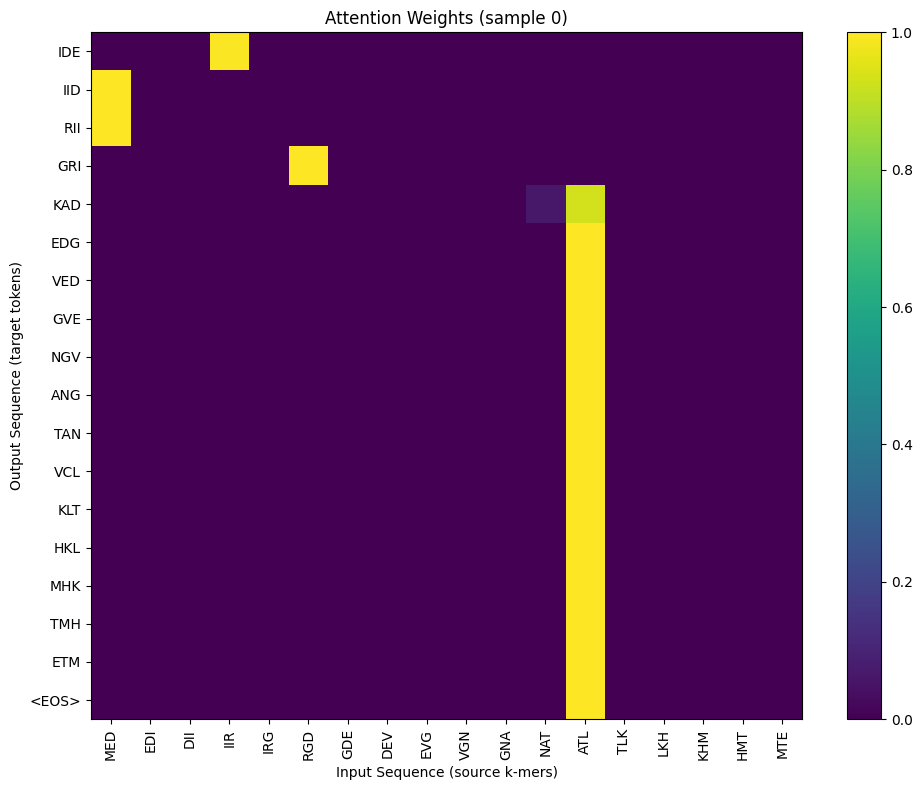
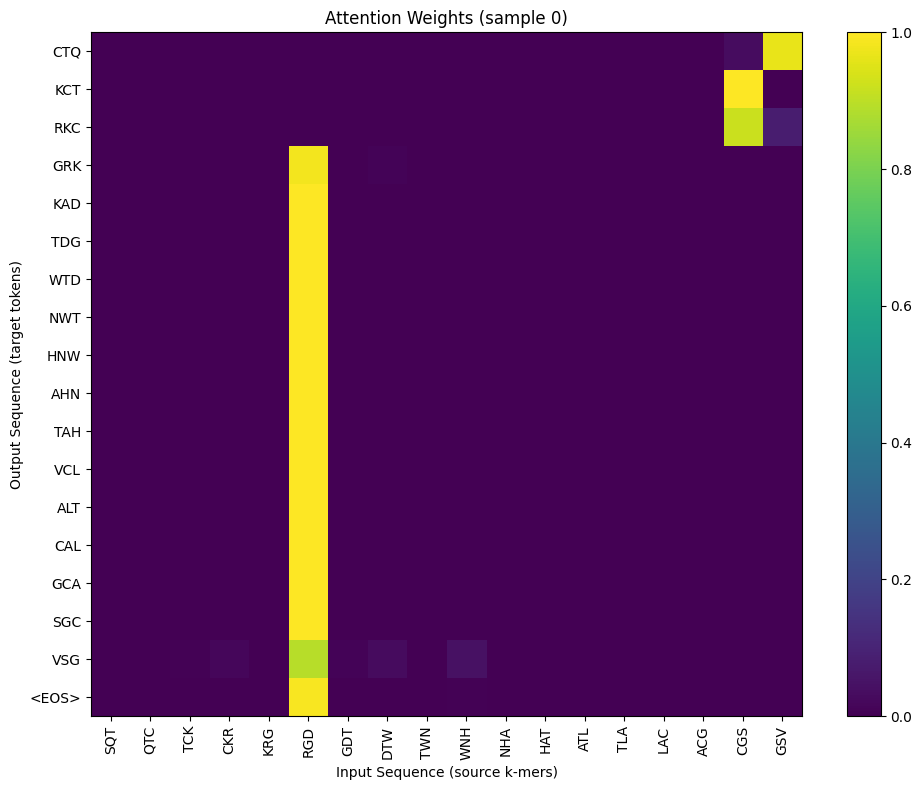
Built site for gh-pages

diff --git a/day8_attention.html b/day8_attention.html
@@ -418,7 +418,7 @@ c_t = \sum_i \alpha_{t,i} h_i
 </ul></li>
 </ul>
 <p><img src="images/attention.png" class="img-fluid"></p>
-<div id="cell-11" class="cell" data-execution_count="37">
+<div id="cell-11" class="cell" data-execution_count="44">
 <div class="sourceCode cell-code" id="cb2"><pre class="sourceCode python code-with-copy"><code class="sourceCode python"><span id="cb2-1"><a href="#cb2-1" aria-hidden="true" tabindex="-1"></a><span class="im">import</span> numpy <span class="im">as</span> np</span>
 <span id="cb2-2"><a href="#cb2-2" aria-hidden="true" tabindex="-1"></a></span>
 <span id="cb2-3"><a href="#cb2-3" aria-hidden="true" tabindex="-1"></a><span class="co"># Example encoder outputs (keys and values)</span></span>
@@ -455,15 +455,15 @@ c_t = \sum_i \alpha_{t,i} h_i
 <span id="cb2-34"><a href="#cb2-34" aria-hidden="true" tabindex="-1"></a><span class="bu">print</span>(<span class="st">"Attention Weights (Softmax):"</span>, attention_weights)</span>
 <span id="cb2-35"><a href="#cb2-35" aria-hidden="true" tabindex="-1"></a><span class="bu">print</span>(<span class="st">"Context Vector:"</span>, context_vector)</span></code><button title="Copy to Clipboard" class="code-copy-button"><i class="bi"></i></button></pre></div>
 <div class="cell-output cell-output-stdout">
-<pre><code>Encoder Outputs (Keys and Values): [[ 0.30962238 -1.22155918  0.90155944  1.05228082 -0.4054248 ]
- [ 1.26865193 -0.90169832 -2.03547086  0.96450162  0.01972147]
- [-0.27558512  1.0251221   1.02945028  0.24267249 -0.5731709 ]
- [ 1.12332483 -1.68615437  1.7009695  -0.62422869  0.87135365]]
-Decoder Hidden State (Query): [ 0.91377301  0.48043807 -1.24283583 -0.51323829  0.18869329]
-Attention Scores: [-2.04102109  2.76450795 -1.27145457 -1.41285803]
-Scaled Attention Scores: [-0.91277238  1.23632554 -0.56861177 -0.63184932]
-Attention Weights (Softmax): [0.08121976 0.69663145 0.11458526 0.10756353]
-Context Vector: [ 0.99818107 -0.79127098 -1.04382646  0.7180306   0.00885903]</code></pre>
+<pre><code>Encoder Outputs (Keys and Values): [[-1.97628723 -0.49550066 -0.07627168 -1.50952524  0.8605617 ]
+ [-1.46537992 -0.06623029  1.64805089 -0.31390741 -1.79840795]
+ [-0.6832564   0.48039745 -0.72635226  0.59668384 -0.30876552]
+ [-1.78401374  1.59069848  1.31990247  0.25969989  1.12070123]]
+Decoder Hidden State (Query): [ 1.60975157 -0.73172626  1.26205092 -0.134268    1.98933803]
+Attention Scores: [-1.00039032 -3.76600465 -3.06244056 -0.17540643]
+Scaled Attention Scores: [-0.44738815 -1.68420848 -1.36956505 -0.07844414]
+Attention Weights (Softmax): [0.31906426 0.09262621 0.12687668 0.46143285]
+Context Vector: [-1.67618705  0.63072055  0.64520633 -0.31517228  0.58594798]</code></pre>
 </div>
 </div>
 <p><img src="images/att1.png" class="img-fluid"></p>
@@ -549,7 +549,7 @@ Context Vector: [ 0.99818107 -0.79127098 -1.04382646  0.7180306   0.00885903]</c
 <li>Logits: <code>(B, S_tgt, V)</code></li>
 <li>Attention weights: <code>(B, S_src)</code> - probability distribution over source tokens</li>
 </ul>
-<div id="cell-16" class="cell" data-execution_count="38">
+<div id="cell-16" class="cell" data-execution_count="45">
 <div class="sourceCode cell-code" id="cb4"><pre class="sourceCode python code-with-copy"><code class="sourceCode python"><span id="cb4-1"><a href="#cb4-1" aria-hidden="true" tabindex="-1"></a><span class="im">import</span> numpy <span class="im">as</span> np</span>
 <span id="cb4-2"><a href="#cb4-2" aria-hidden="true" tabindex="-1"></a><span class="im">import</span> torch</span>
 <span id="cb4-3"><a href="#cb4-3" aria-hidden="true" tabindex="-1"></a><span class="im">from</span> torch.utils.data <span class="im">import</span> Dataset, DataLoader</span>
@@ -675,18 +675,18 @@ Context Vector: [ 0.99818107 -0.79127098 -1.04382646  0.7180306   0.00885903]</c
 <span id="cb4-123"><a href="#cb4-123" aria-hidden="true" tabindex="-1"></a></span>
 <span id="cb4-124"><a href="#cb4-124" aria-hidden="true" tabindex="-1"></a></span></code><button title="Copy to Clipboard" class="code-copy-button"><i class="bi"></i></button></pre></div>
 <div class="cell-output cell-output-stdout">
-<pre><code>Vocabulary size: 4478
+<pre><code>Vocabulary size: 4452
 Source batch shape: torch.Size([10, 18])
 Decoder input shape: torch.Size([10, 19])
 Decoder target shape: torch.Size([10, 19])
 Source lengths: [18, 18, 18, 18, 18, 18, 18, 18, 18, 18]
 Decoder lengths: [19, 19, 19, 19, 19, 19, 19, 19, 19, 19]
-Initial sequence: KNWHKRGDRSQRATLNLTWD
-Source k-mers[0]: ['KNW', 'NWH', 'WHK', 'HKR', 'KRG', 'RGD', 'GDR', 'DRS', 'RSQ', 'SQR'] ...
-Target k-mers[0]: ['WNK', 'HWN', 'KHW', 'RKH', 'GRK', 'KAD', 'RDG', 'SRD', 'QSR', 'RQS'] ...</code></pre>
+Initial sequence: YSNCYRGDWYILATLDWGPF
+Source k-mers[0]: ['YSN', 'SNC', 'NCY', 'CYR', 'YRG', 'RGD', 'GDW', 'DWY', 'WYI', 'YIL'] ...
+Target k-mers[0]: ['NSY', 'CNS', 'YCN', 'RYC', 'GRY', 'KAD', 'WDG', 'YWD', 'IYW', 'LIY'] ...</code></pre>
 </div>
 </div>
-<div id="cell-17" class="cell" data-execution_count="39">
+<div id="cell-17" class="cell" data-execution_count="46">
 <div class="sourceCode cell-code" id="cb6"><pre class="sourceCode python code-with-copy"><code class="sourceCode python"><span id="cb6-1"><a href="#cb6-1" aria-hidden="true" tabindex="-1"></a><span class="im">import</span> torch</span>
 <span id="cb6-2"><a href="#cb6-2" aria-hidden="true" tabindex="-1"></a><span class="im">import</span> torch.nn <span class="im">as</span> nn</span>
 <span id="cb6-3"><a href="#cb6-3" aria-hidden="true" tabindex="-1"></a><span class="im">import</span> torch.nn.functional <span class="im">as</span> F</span>
@@ -897,7 +897,7 @@ Target k-mers[0]: ['WNK', 'HWN', 'KHW', 'RKH', 'GRK', 'KAD', 'RDG', 'SRD', 'QSR'
 <span id="cb6-208"><a href="#cb6-208" aria-hidden="true" tabindex="-1"></a></span>
 <span id="cb6-209"><a href="#cb6-209" aria-hidden="true" tabindex="-1"></a>        <span class="cf">return</span> outputs, attn_list</span></code><button title="Copy to Clipboard" class="code-copy-button"><i class="bi"></i></button></pre></div>
 </div>
-<div id="cell-18" class="cell" data-execution_count="40">
+<div id="cell-18" class="cell" data-execution_count="47">
 <div class="sourceCode cell-code" id="cb7"><pre class="sourceCode python code-with-copy"><code class="sourceCode python"><span id="cb7-1"><a href="#cb7-1" aria-hidden="true" tabindex="-1"></a><span class="im">import</span> torch</span>
 <span id="cb7-2"><a href="#cb7-2" aria-hidden="true" tabindex="-1"></a><span class="im">import</span> torch.nn <span class="im">as</span> nn</span>
 <span id="cb7-3"><a href="#cb7-3" aria-hidden="true" tabindex="-1"></a></span>
@@ -970,59 +970,59 @@ Target k-mers[0]: ['WNK', 'HWN', 'KHW', 'RKH', 'GRK', 'KAD', 'RDG', 'SRD', 'QSR'
 <span id="cb7-70"><a href="#cb7-70" aria-hidden="true" tabindex="-1"></a>    avg_loss <span class="op">=</span> total_loss <span class="op">/</span> <span class="bu">max</span>(<span class="dv">1</span>, num_batches)</span>
 <span id="cb7-71"><a href="#cb7-71" aria-hidden="true" tabindex="-1"></a>    <span class="bu">print</span>(<span class="ss">f"Epoch </span><span class="sc">{</span>epoch<span class="sc">}</span><span class="ss">/</span><span class="sc">{</span>epochs<span class="sc">}</span><span class="ss"> - Loss: </span><span class="sc">{</span>avg_loss<span class="sc">:.4f}</span><span class="ss">"</span>)</span></code><button title="Copy to Clipboard" class="code-copy-button"><i class="bi"></i></button></pre></div>
 <div class="cell-output cell-output-stdout">
-<pre><code>Epoch 1/50 - Loss: 8.1610
-Epoch 2/50 - Loss: 6.9688
-Epoch 3/50 - Loss: 6.6315
-Epoch 4/50 - Loss: 6.3118
-Epoch 5/50 - Loss: 5.9868
-Epoch 6/50 - Loss: 5.6759
-Epoch 7/50 - Loss: 5.3557
-Epoch 8/50 - Loss: 5.0290
-Epoch 9/50 - Loss: 4.6998
-Epoch 10/50 - Loss: 4.3941
-Epoch 11/50 - Loss: 4.0830
-Epoch 12/50 - Loss: 3.7908
-Epoch 13/50 - Loss: 3.5122
-Epoch 14/50 - Loss: 3.2365
-Epoch 15/50 - Loss: 2.9783
-Epoch 16/50 - Loss: 2.7413
-Epoch 17/50 - Loss: 2.5214
-Epoch 18/50 - Loss: 2.3224
-Epoch 19/50 - Loss: 2.1395
-Epoch 20/50 - Loss: 1.9645
-Epoch 21/50 - Loss: 1.8094
-Epoch 22/50 - Loss: 1.6709
-Epoch 23/50 - Loss: 1.5422
-Epoch 24/50 - Loss: 1.4250
-Epoch 25/50 - Loss: 1.3188
-Epoch 26/50 - Loss: 1.2233
-Epoch 27/50 - Loss: 1.1383
-Epoch 28/50 - Loss: 1.0664
-Epoch 29/50 - Loss: 1.0148
-Epoch 30/50 - Loss: 0.9577
-Epoch 31/50 - Loss: 0.8992
-Epoch 32/50 - Loss: 0.8402
-Epoch 33/50 - Loss: 0.7905
-Epoch 34/50 - Loss: 0.7466
-Epoch 35/50 - Loss: 0.7064
-Epoch 36/50 - Loss: 0.6703
-Epoch 37/50 - Loss: 0.6354
-Epoch 38/50 - Loss: 0.6050
-Epoch 39/50 - Loss: 0.5761
-Epoch 40/50 - Loss: 0.5512
-Epoch 41/50 - Loss: 0.5251
-Epoch 42/50 - Loss: 0.5003
-Epoch 43/50 - Loss: 0.4784
-Epoch 44/50 - Loss: 0.4569
-Epoch 45/50 - Loss: 0.4371
-Epoch 46/50 - Loss: 0.4174
-Epoch 47/50 - Loss: 0.3992
-Epoch 48/50 - Loss: 0.3829
-Epoch 49/50 - Loss: 0.3659
-Epoch 50/50 - Loss: 0.3508</code></pre>
+<pre><code>Epoch 1/50 - Loss: 8.1478
+Epoch 2/50 - Loss: 6.9790
+Epoch 3/50 - Loss: 6.7055
+Epoch 4/50 - Loss: 6.4761
+Epoch 5/50 - Loss: 6.2001
+Epoch 6/50 - Loss: 5.8941
+Epoch 7/50 - Loss: 5.5592
+Epoch 8/50 - Loss: 5.2031
+Epoch 9/50 - Loss: 4.8443
+Epoch 10/50 - Loss: 4.4940
+Epoch 11/50 - Loss: 4.1387
+Epoch 12/50 - Loss: 3.7852
+Epoch 13/50 - Loss: 3.4568
+Epoch 14/50 - Loss: 3.1534
+Epoch 15/50 - Loss: 2.8777
+Epoch 16/50 - Loss: 2.6257
+Epoch 17/50 - Loss: 2.3971
+Epoch 18/50 - Loss: 2.1923
+Epoch 19/50 - Loss: 2.0024
+Epoch 20/50 - Loss: 1.8358
+Epoch 21/50 - Loss: 1.6900
+Epoch 22/50 - Loss: 1.5577
+Epoch 23/50 - Loss: 1.4453
+Epoch 24/50 - Loss: 1.3379
+Epoch 25/50 - Loss: 1.2448
+Epoch 26/50 - Loss: 1.1623
+Epoch 27/50 - Loss: 1.0838
+Epoch 28/50 - Loss: 1.0137
+Epoch 29/50 - Loss: 0.9516
+Epoch 30/50 - Loss: 0.8966
+Epoch 31/50 - Loss: 0.8461
+Epoch 32/50 - Loss: 0.8009
+Epoch 33/50 - Loss: 0.7583
+Epoch 34/50 - Loss: 0.7185
+Epoch 35/50 - Loss: 0.6815
+Epoch 36/50 - Loss: 0.6466
+Epoch 37/50 - Loss: 0.6159
+Epoch 38/50 - Loss: 0.5866
+Epoch 39/50 - Loss: 0.5582
+Epoch 40/50 - Loss: 0.5322
+Epoch 41/50 - Loss: 0.5075
+Epoch 42/50 - Loss: 0.4837
+Epoch 43/50 - Loss: 0.4617
+Epoch 44/50 - Loss: 0.4409
+Epoch 45/50 - Loss: 0.4215
+Epoch 46/50 - Loss: 0.4029
+Epoch 47/50 - Loss: 0.3855
+Epoch 48/50 - Loss: 0.3686
+Epoch 49/50 - Loss: 0.3532
+Epoch 50/50 - Loss: 0.3384</code></pre>
 </div>
 </div>
-<div id="cell-19" class="cell" data-execution_count="41">
+<div id="cell-19" class="cell" data-execution_count="48">
 <div class="sourceCode cell-code" id="cb9"><pre class="sourceCode python code-with-copy"><code class="sourceCode python"><span id="cb9-1"><a href="#cb9-1" aria-hidden="true" tabindex="-1"></a><span class="co"># ============================================</span></span>
 <span id="cb9-2"><a href="#cb9-2" aria-hidden="true" tabindex="-1"></a><span class="co"># 모델 평가: Token-level Accuracy</span></span>
 <span id="cb9-3"><a href="#cb9-3" aria-hidden="true" tabindex="-1"></a><span class="co"># ============================================</span></span>
@@ -1076,11 +1076,11 @@ Epoch 50/50 - Loss: 0.3508</code></pre>
 <div class="cell-output cell-output-stdout">
 <pre><code>
 ==================================================
-Token-level Accuracy: 93.93%
+Token-level Accuracy: 93.98%
 ==================================================</code></pre>
 </div>
 </div>
-<div id="cell-20" class="cell" data-execution_count="42">
+<div id="cell-20" class="cell" data-execution_count="49">
 <div class="sourceCode cell-code" id="cb11"><pre class="sourceCode python code-with-copy"><code class="sourceCode python"><span id="cb11-1"><a href="#cb11-1" aria-hidden="true" tabindex="-1"></a><span class="co"># ============================================</span></span>
 <span id="cb11-2"><a href="#cb11-2" aria-hidden="true" tabindex="-1"></a><span class="co"># 정성적 평가: 실제 예측 결과 확인</span></span>
 <span id="cb11-3"><a href="#cb11-3" aria-hidden="true" tabindex="-1"></a><span class="co"># ============================================</span></span>
@@ -1171,26 +1171,26 @@ Token-level Accuracy: 93.93%
 ======================================================================
 
 [예시 1]
-Input:     KNW NWH WHK HKR KRG RGD GDR DRS RSQ SQR QRA RAT ...
-Target:    WNK HWN KHW RKH GRK KAD RDG SRD QSR RQS ARQ TAR ...
-Predicted: HWN KHW RKH GRK KAD RDG SRD QSR RQS ARQ TAR VCL ...
+Input:     YSN SNC NCY CYR YRG RGD GDW DWY WYI YIL ILA LAT ...
+Target:    NSY CNS YCN RYC GRY KAD WDG YWD IYW LIY ALI TAL ...
+Predicted: CNS YCN RYC GRY KAD WDG YWD IYW LIY ALI TAL VCL ...
 Accuracy:  94.1% (16/17 k-mers correct)
 
 [예시 2]
-Input:     YWH WHL HLR LRR RRG RGD GDC DCI CIL ILM LMA MAT ...
-Target:    HWY LHW RLH RRL GRR KAD CDG ICD LIC MLI AML TAM ...
-Predicted: LHW RLH RRL GRR KAD CDG ICD LIC MLI AML TAM VCL ...
+Input:     EIR IRW RWS WSR SRG RGD GDN DNH NHK HKC KCA CAT ...
+Target:    RIE WRI SWR RSW GRS KAD NDG HND KHN CKH ACK TAC ...
+Predicted: WRI SWR RSW GRS KAD NDG HND KHN CKH ACK TAC VCL ...
 Accuracy:  94.1% (16/17 k-mers correct)
 
 [예시 3]
-Input:     GLH LHI HID IDR DRG RGD GDR DRE REM EMC MCA CAT ...
-Target:    HLG IHL DIH RDI GRD KAD RDG ERD MER CME ACM TAC ...
-Predicted: IHL DIH RDI GRD KAD RDG ERD MER CME ACM TAC VCL ...
+Input:     TVS VSV SVT VTR TRG RGD GDY DYE YEK EKM KMA MAT ...
+Target:    SVT VSV TVS RTV GRT KAD YDG EYD KEY MKE AMK TAM ...
+Predicted: VSV TVS RTV GRT KAD YDG EYD KEY MKE AMK TAM VCL ...
 Accuracy:  94.1% (16/17 k-mers correct)
 ======================================================================</code></pre>
 </div>
 </div>
-<div id="cell-21" class="cell" data-execution_count="43">
+<div id="cell-21" class="cell" data-execution_count="50">
 <div class="sourceCode cell-code" id="cb13"><pre class="sourceCode python code-with-copy"><code class="sourceCode python"><span id="cb13-1"><a href="#cb13-1" aria-hidden="true" tabindex="-1"></a><span class="im">import</span> matplotlib.pyplot <span class="im">as</span> plt</span>
 <span id="cb13-2"><a href="#cb13-2" aria-hidden="true" tabindex="-1"></a><span class="im">import</span> torch</span>
 <span id="cb13-3"><a href="#cb13-3" aria-hidden="true" tabindex="-1"></a></span>
